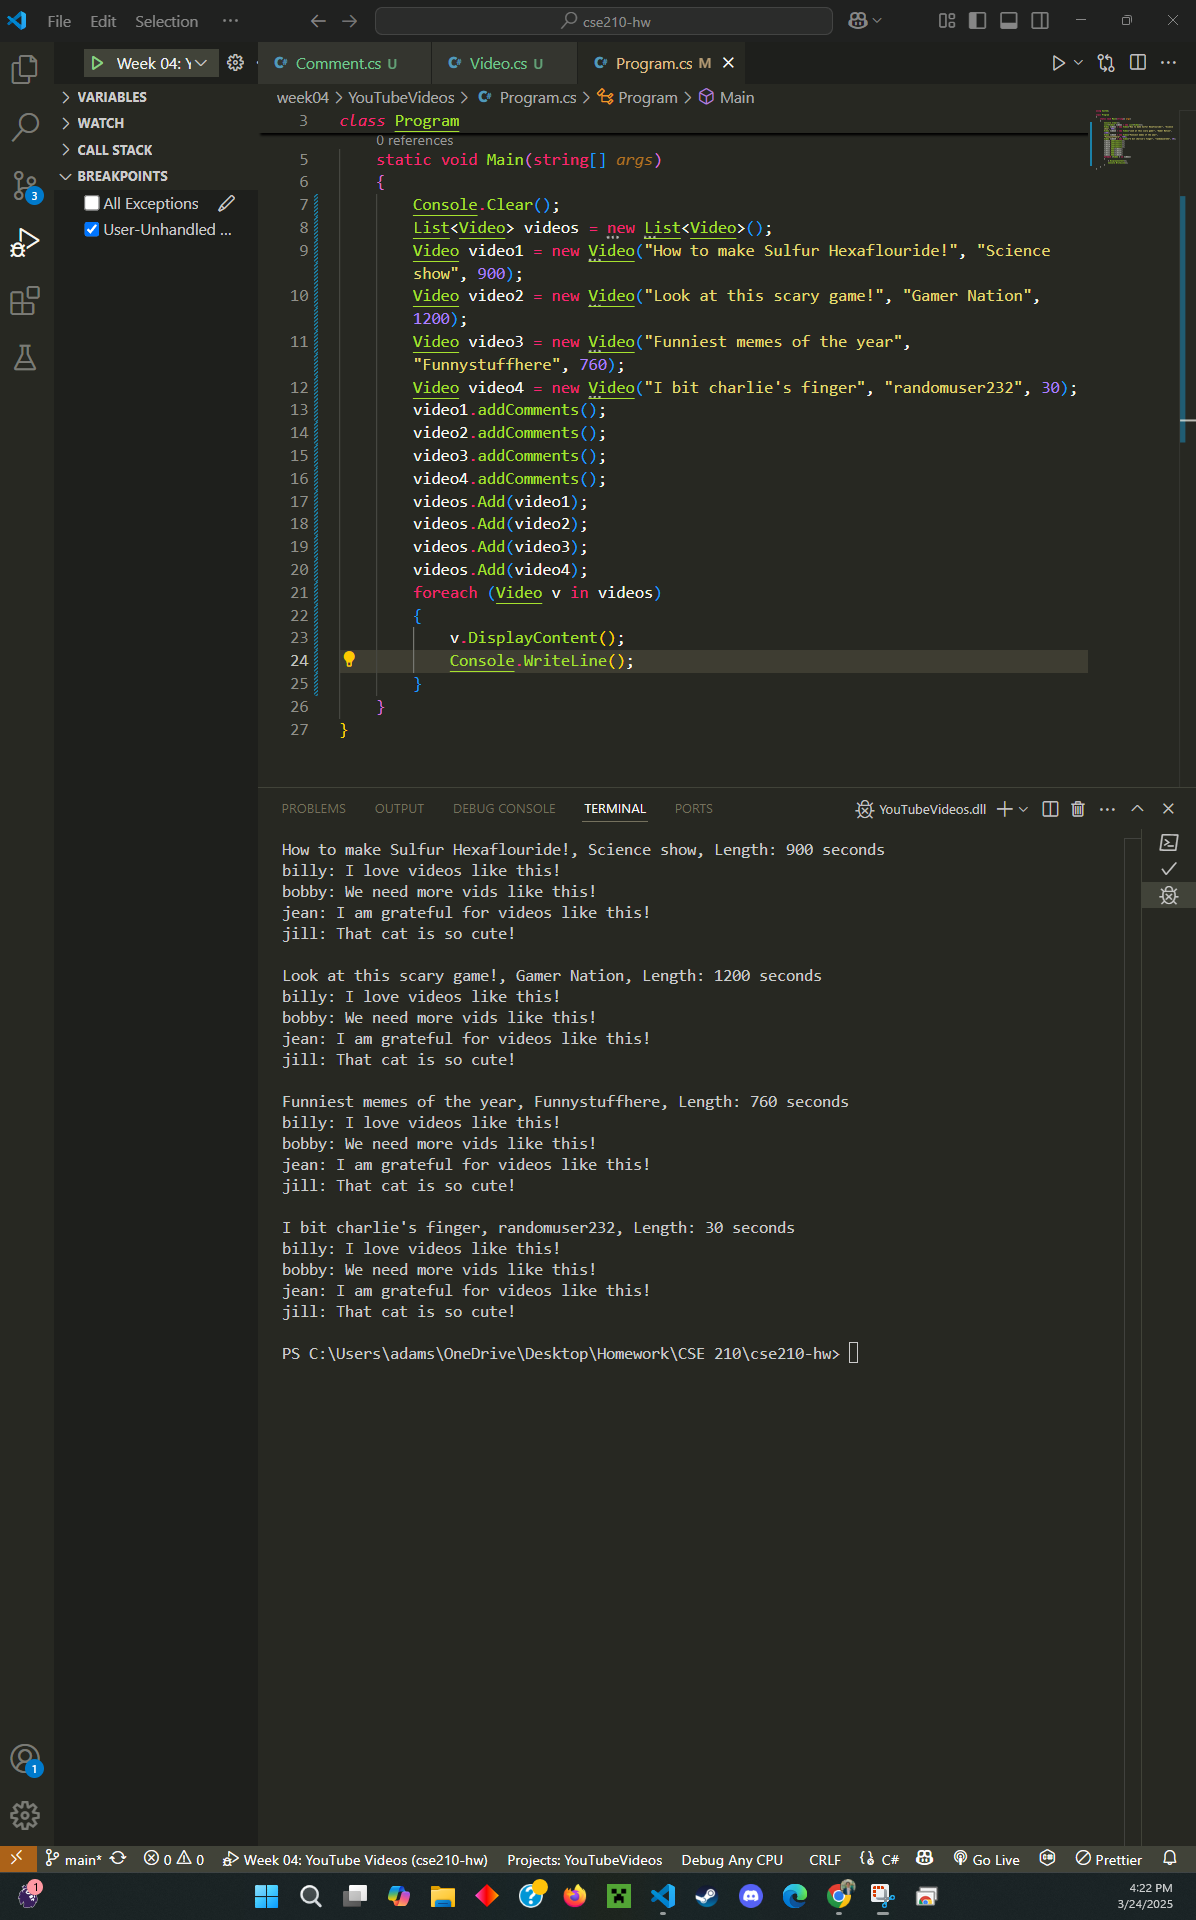
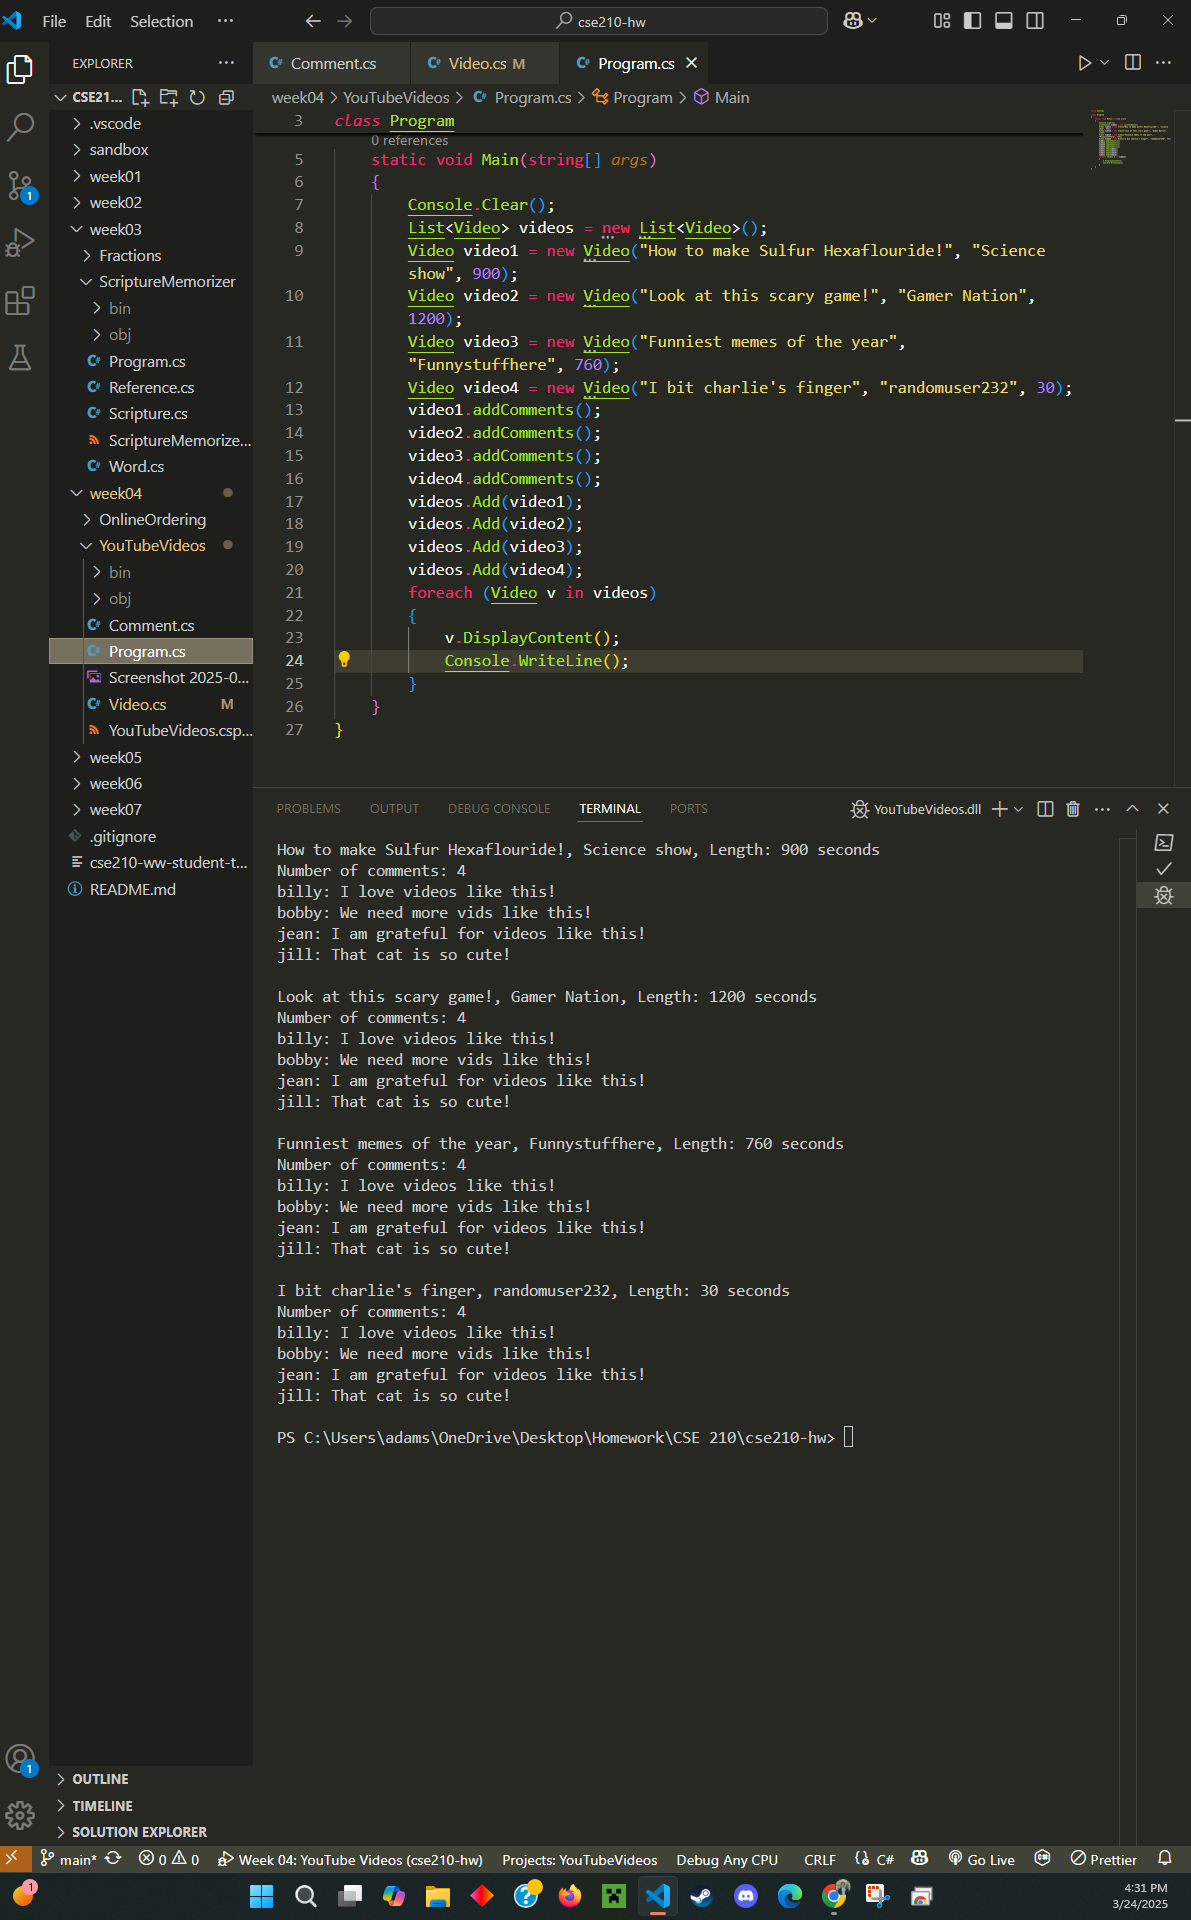
fix

diff --git a/week04/YouTubeVideos/Video.cs b/week04/YouTubeVideos/Video.cs
@@ -29,10 +29,14 @@ public class Video
     public void DisplayContent()
     {
         Console.WriteLine($"{_title}, {_author}, Length: {_length} seconds");
+        DisplayNumberOfComments();
         foreach (Comment a in _comments)
         {
             Console.WriteLine($"{a.GetCommenter()}: {a.GetContent()}");
         }
     }
-
+    public void DisplayNumberOfComments()
+    {
+        Console.WriteLine($"Number of comments: {_comments.Count}");
+    }
 }
